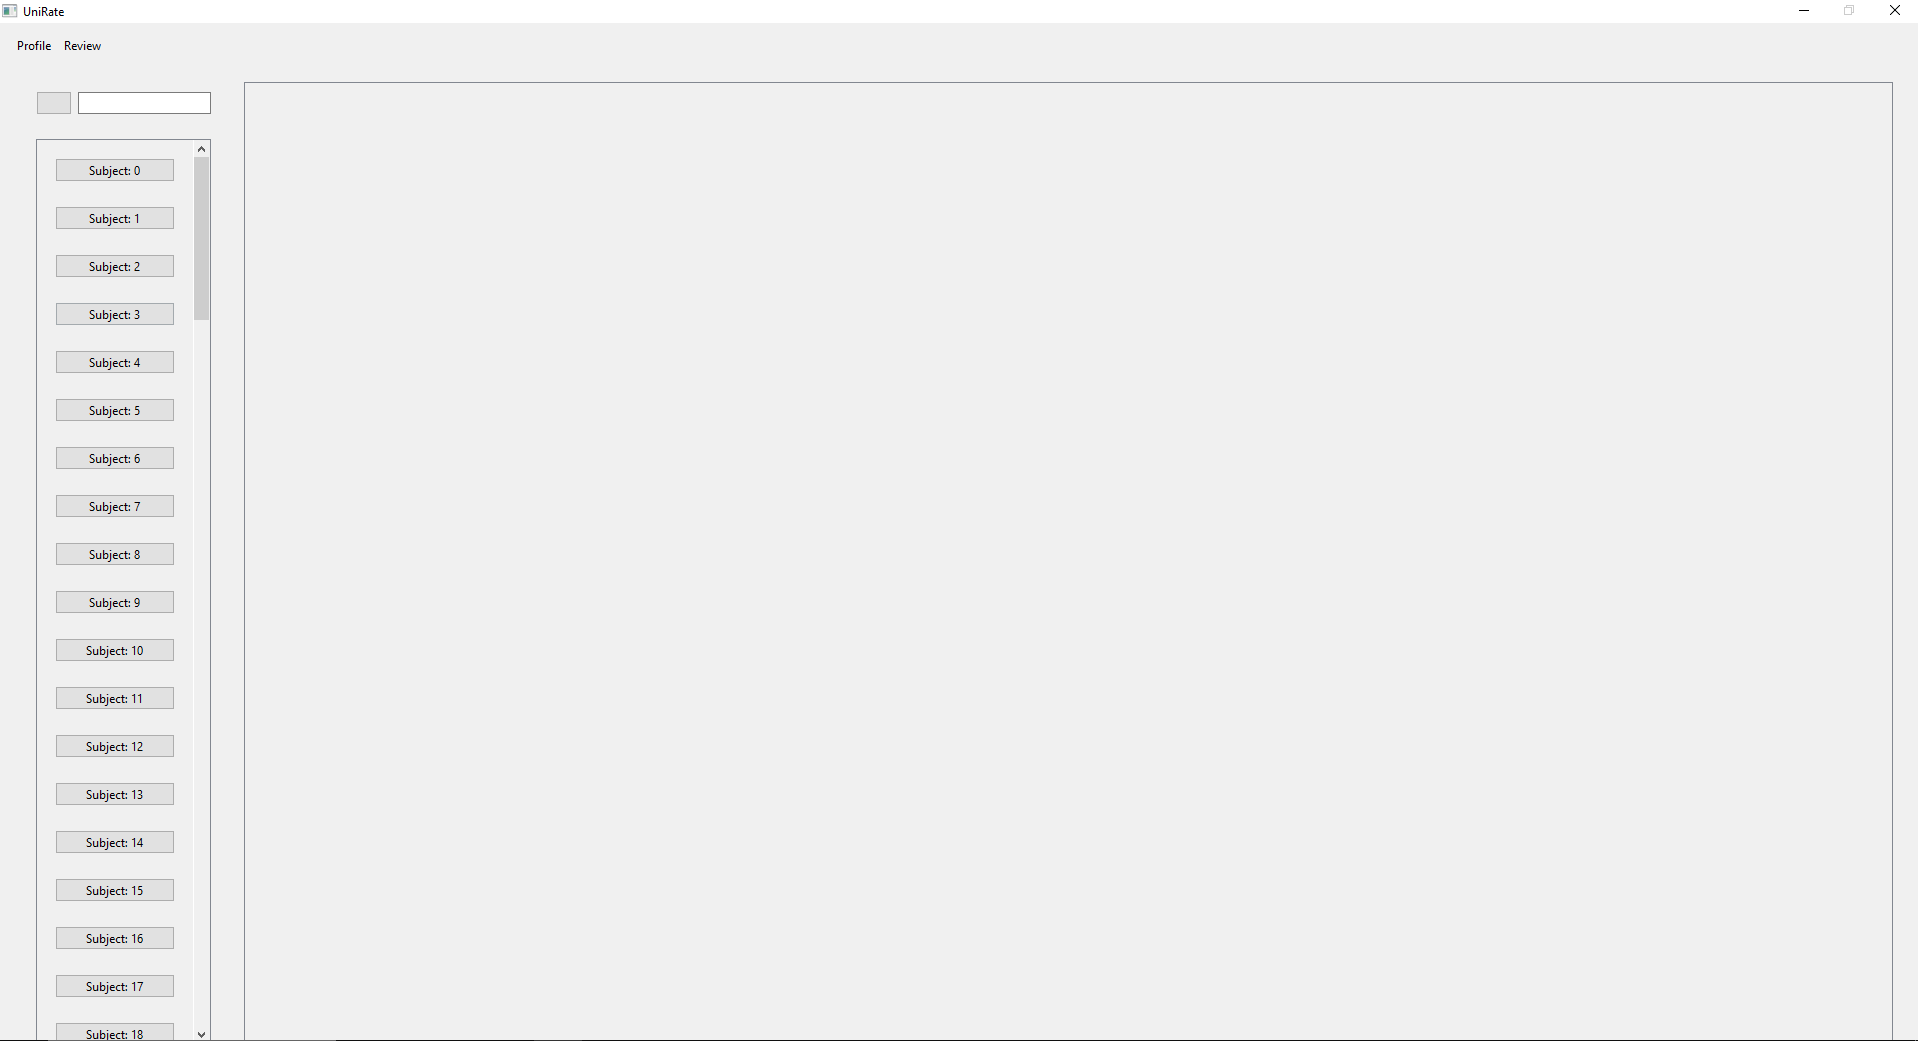
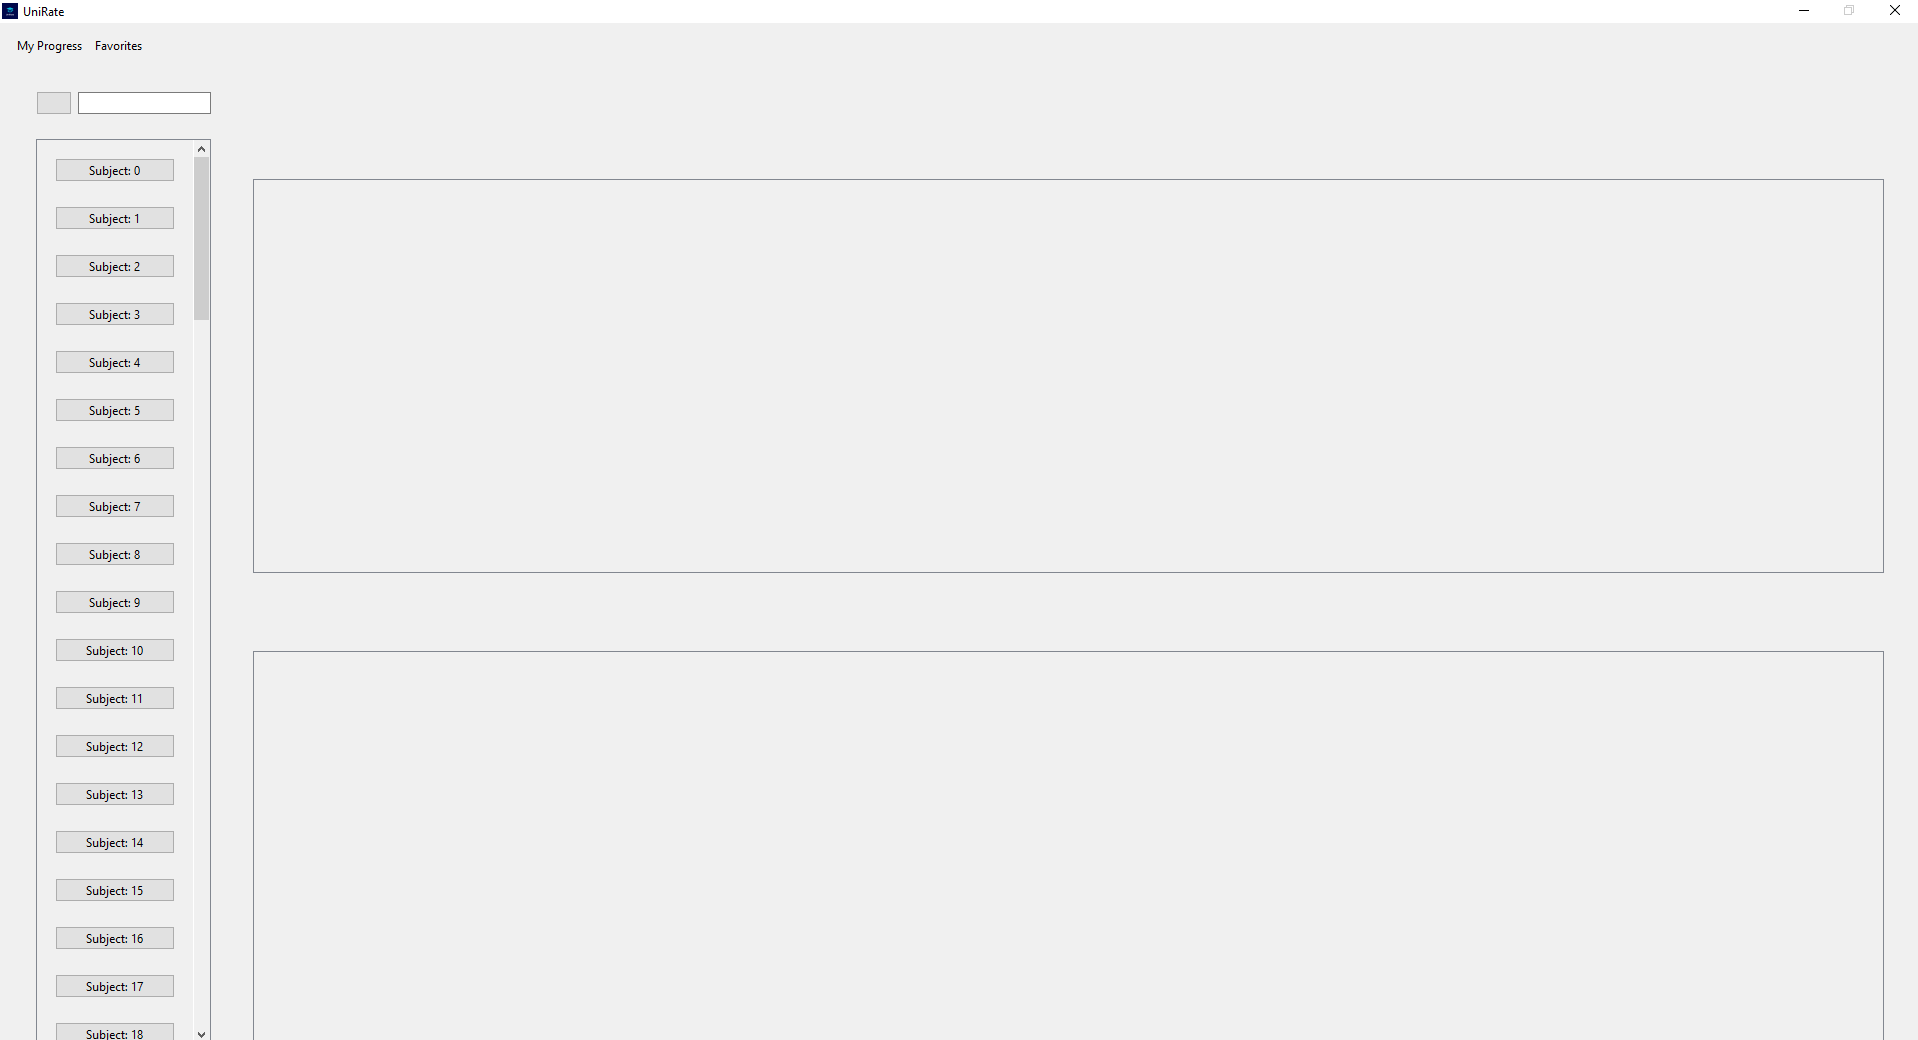
Final screenshots

Changed region(s): [[0.0308, 0.4308, 0.0923, 1.0], [0.0, 0.0, 0.0615, 0.0615], [0.0308, 0.3692, 0.0615, 0.4]]

diff --git a/Windows/Student/studentMainWindow.py b/Windows/Student/studentMainWindow.py
@@ -46,7 +46,12 @@ class studentMain(QWidget):
         self.subTitleWidget.setLayout(self.subTitleLayout)
         self.qnaCont = QnaContainer("", self.type)
         self.subTitleLayout.addWidget(self.qnaLabel, 3, 0)
-        self.subTitleLayout.addWidget(self.qnaCont, 4, 0)
+
+        self.qnaBtn = QPushButton("Ask Something")
+        self.qnaBtn.setFixedWidth(100)
+        #self.subTitleLayout.addWidget(self.qnaBtn, 4, 0)
+
+        self.subTitleLayout.addWidget(self.qnaCont, 5, 0)
 
         self.hLayout.addWidget(self.subCont, 0, 0)
         self.hLayout.addWidget(self.subTitleWidget, 0, 1)
@@ -56,9 +61,9 @@ class studentMain(QWidget):
         self.toolbar = QToolBar("Main bar")
         self.vLayout.addWidget(self.toolbar)
 
-        self.profileAction = QAction("Profile", self)
-        self.profileAction.setStatusTip("Profile")
-        self.profileAction.triggered.connect(self.profileClicked)
+        self.profileAction = QAction("My Progress", self)
+        self.profileAction.setStatusTip("My Progress")
+        self.profileAction.triggered.connect(self.progClicked)
         self.toolbar.addAction(self.profileAction)
 
         self.reviewAction = QAction("Favorites", self)
@@ -80,7 +85,8 @@ class studentMain(QWidget):
         self.revCont = ReviewContainer(self.subClicked, self.type)
         self.qnaCont = QnaContainer(self.subClicked, self.type)
         self.subTitleLayout.addWidget(self.revCont, 2, 0)
-        self.subTitleLayout.addWidget(self.qnaCont, 4, 0)
+        self.subTitleLayout.addWidget(self.qnaBtn, 4, 0)
+        self.subTitleLayout.addWidget(self.qnaCont, 5, 0)
         #self.hLayout.setColumnStretch(1, 1)
         self.rateLabel.setText("Rating: " + str(randint(0, 10)) + "/10")
         self.qnaLabel.setText("QnA:")
@@ -88,7 +94,7 @@ class studentMain(QWidget):
         self.subTitleLayout.update()
         self.update()
 
-    def profileClicked(self):
+    def progClicked(self):
         pass
 
     def favClicked(self):

diff --git a/Windows/Teacher/teacherMainWindow.py b/Windows/Teacher/teacherMainWindow.py
@@ -56,11 +56,6 @@ class teacherMain(QWidget):
         self.toolbar = QToolBar("Main bar")
         self.vLayout.addWidget(self.toolbar)
 
-        self.profileAction = QAction("Profile", self)
-        self.profileAction.setStatusTip("Profile")
-        self.profileAction.triggered.connect(self.profileClicked)
-        self.toolbar.addAction(self.profileAction)
-
         self.reviewAction = QAction("Favorites", self)
         self.reviewAction.setStatusTip("Write a review for the selected subject")
         self.reviewAction.triggered.connect(self.favClicked)
@@ -87,10 +82,7 @@ class teacherMain(QWidget):
         self.subTitle.setText(self.subClicked)
         self.subTitleLayout.update()
         self.update()
-
-    def profileClicked(self):
-        pass
-
+        
     def favClicked(self):
         pass
 

diff --git a/Windows/Admin/adminMainWindow.py b/Windows/Admin/adminMainWindow.py
@@ -56,11 +56,6 @@ class adminMain(QWidget):
         self.toolbar = QToolBar("Main bar")
         self.vLayout.addWidget(self.toolbar)
 
-        self.profileAction = QAction("Profile", self)
-        self.profileAction.setStatusTip("Profile")
-        self.profileAction.triggered.connect(self.profileClicked)
-        self.toolbar.addAction(self.profileAction)
-
         self.repReviews = QAction("Reported", self)
         self.repReviews.triggered.connect(self.reportedClicked)
         self.toolbar.addAction(self.repReviews)
@@ -86,10 +81,7 @@ class adminMain(QWidget):
         self.subTitle.setText(self.subClicked)
         self.subTitleLayout.update()
         self.update()
-
-    def profileClicked(self):
-        pass
-
+        
     def reportedClicked(self):
         pass
 
